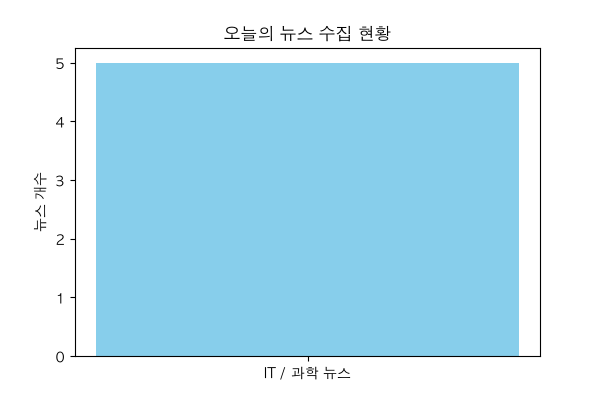
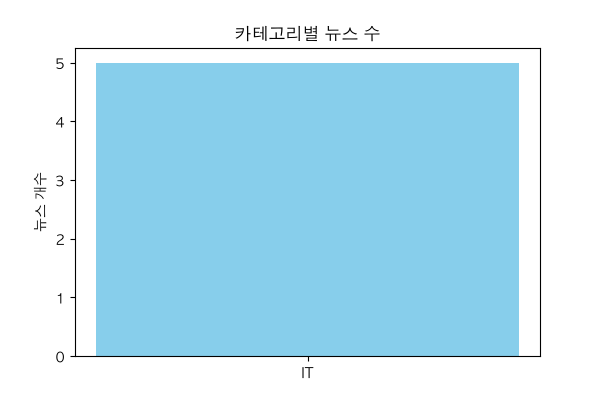
feat: complete export visualization and report

Changed region(s): [[0.36, 0.06, 0.66, 0.12], [0.45, 0.9, 0.57, 0.96]]

diff --git a/main.py b/main.py
@@ -8,6 +8,7 @@ import analyzer
 import reporter
 import exporter
 
+# ⭐ 파이썬 로깅 시스템 설정 (콘솔에 INFO 등급 이상의 로그를 예쁘게 출력해 줍니다)
 logging.basicConfig(
     level=logging.INFO,
     format="[%(levelname)s] %(message)s"
@@ -16,42 +17,49 @@ logging.basicConfig(
 parser = argparse.ArgumentParser(description="AI 뉴스 트렌드 및 종합 분석 리포트")
 subparsers = parser.add_subparsers(dest="command")
 
-# 명령어 종류 등록
+# fetch 명령어
 fetch_parser = subparsers.add_parser("fetch")
 fetch_parser.add_argument("--source", default="google")
 fetch_parser.add_argument("--limit", default=5) 
 
+# clean 명령어
 clean_parser = subparsers.add_parser("clean")
 
+# summarize 명령어
 summarize_parser = subparsers.add_parser("summarize")
 summarize_parser.add_argument("--unsummarized", action="store_true")
 
+# analyze 명령어
 analyze_parser = subparsers.add_parser("analyze")
 analyze_parser.add_argument("--category", default="IT")
 
-report_parser = subparsers.add_parser("report")
-
-# ⭐ 이 부분이 빠져있어서 에러가 났던 것입니다! 여기에 추가해 줍니다.
+# export 명령어
 export_parser = subparsers.add_parser("export")
-export_parser.add_argument("--status", default="all", help="내보낼 뉴스 상태 필터")
+export_parser.add_argument("--status", default=None)
+export_parser.add_argument("--format", choices=["csv", "jsonl"], default="csv")
+
+# report 명령어
+report_parser = subparsers.add_parser("report")
 
 args = parser.parse_args()
 
 if args.command == "fetch":
     logging.info(f"뉴스 수집 시작: source={args.source}, limit={args.limit}")
     collected_news = fetcher.fetch_google_news(args.limit)
+    
     if collected_news:
         storage.save_raw_data(collected_news)
         logging.info(f"수집 완료: {len(collected_news)}건 성공")
+        logging.info("raw 저장소(raw_news.jsonl)에 저장 완료!")
     else:
-        logging.warning("수집된 뉴스가 없습니다.")
+        logging.warning("수집된 뉴스가 없거나 네트워크 오류가 발생했습니다.")
 
 elif args.command == "clean":
-    logging.info("데이터 정제 시작...")
+    logging.info("데이터 정제(Clean) 시작...")
     raw_data = storage.load_raw_data()
     cleaned_data = cleaner.clean_data(raw_data)
     storage.save_clean_data(cleaned_data)
-    logging.info(f"정제 완료: {len(cleaned_data)}건 저장")
+    logging.info(f"정제 완료: {len(cleaned_data)}건 저장 (clean_news.jsonl)")
 
 elif args.command == "summarize":
     logging.info("AI 뉴스 요약 시작...")
@@ -64,31 +72,50 @@ elif args.command == "analyze":
     logging.info(f"종합 인사이트 분석 시작 (카테고리: {args.category})...")
     clean_data = storage.load_clean_data()
     summarized_data = [news for news in clean_data if news.get("상태") == "summarized"]
+    
     if not summarized_data:
-        logging.warning("분석할 요약 뉴스가 없습니다.")
+        logging.warning("분석할 요약 뉴스가 없습니다. summarize를 먼저 실행해주세요.")
     else:
         insights = analyzer.generate_insights(summarized_data)
         storage.save_insights(insights)
-        logging.info("분석 결과 저장 완료")
+        logging.info("분석 결과 저장 완료 (insight_result.json)")
+
 
 elif args.command == "report":
     logging.info("최종 리포트 및 시각화 그래프 생성 중...")
     clean_data = storage.load_clean_data()
     insights = storage.load_insights()
+    
     if not insights:
-        logging.error("분석 결과가 없습니다.")
+        logging.error("분석 결과가 없습니다. analyze를 먼저 실행해주세요.")
     else:
-        reporter.generate_report(len(clean_data), insights)
+        reporter.generate_report(clean_data, insights)
         logging.info("리포트 및 그래프 생성 완료!")
 
 elif args.command == "export":
     logging.info(f"데이터 내보내기 시작 (필터 상태: {args.status})...")
+
     clean_data = storage.load_clean_data()
-    if args.status != "all":
-        target_data = [news for news in clean_data if news.get("상태") == args.status]
+
+    if args.status:
+        target_data = [
+            news for news in clean_data
+            if news.get("상태") == args.status
+        ]
     else:
         target_data = clean_data
-    exporter.export_to_csv(target_data, filename="exported_news.csv")
+
+    if args.format == "csv":
+        exporter.export_to_csv(
+        target_data,
+        filename="exported_news.csv"
+    )
+
+    elif args.format == "jsonl": 
+        exporter.export_to_jsonl(
+        target_data,
+        filename="exported_news.jsonl"
+    )
 
 else:
-    logging.error("정확한 명령어를 입력해주세요. (fetch, clean, summarize, analyze, report, export)")
+    logging.error("정확한 명령어를 입력해주세요. (fetch, clean, summarize, analyze, report)")

diff --git a/reporter.py b/reporter.py
@@ -1,37 +1,104 @@
 import matplotlib.pyplot as plt
 import os
 
-def generate_report(news_count, insights):
+def generate_report(news_list, insights):
+    news_count = len(news_list)
     # 1. 📊 그래프 그리기 (시각화)
     # 맥북에서 한글이 깨지지 않게 'AppleGothic' 폰트를 설정해 줍니다.
     plt.rcParams['font.family'] = 'AppleGothic'
     plt.rcParams['axes.unicode_minus'] = False
     
     # x축(이름)과 y축(숫자) 데이터 준비
-    categories = ['IT / 과학 뉴스']
-    counts = [news_count]
+    category_counts = {}
+
+    for news in news_list:
+        category = news.get("카테고리", "IT")
+        category_counts[category] = category_counts.get(category, 0) + 1
+
+    categories = list(category_counts.keys())
+    counts = list(category_counts.values())
     
     # 막대그래프 그리기
     plt.figure(figsize=(6, 4))
-    plt.bar(categories, counts, color='skyblue')
-    plt.title("오늘의 뉴스 수집 현황")
+    plt.bar(categories, counts, color='skyblue', linewidth=0)
+    plt.title("카테고리별 뉴스 수")
     plt.ylabel("뉴스 개수")
     
     # 그린 그래프를 이미지 파일(PNG)로 저장!
     plt.savefig("news_chart.png")
     plt.close()
+
+    # 2. 📈 일자별 수집 추이 그래프 만들기
+    daily_counts = {}
+
+    for news in news_list:
+        collected_at = news.get("수집시각", "")
+
+        if collected_at:
+            date = collected_at.split(" ")[0]
+            daily_counts[date] = daily_counts.get(date, 0) + 1
+
+    dates = list(daily_counts.keys())
+    counts_by_date = list(daily_counts.values())
+
+    plt.figure(figsize=(8, 4))
+    plt.plot(dates, counts_by_date, marker="o")
+    plt.title("일자별 뉴스 수집 추이")
+    plt.xlabel("수집 날짜")
+    plt.ylabel("뉴스 개수")
+    plt.xticks(rotation=45)
+    plt.tight_layout()
+
+    plt.savefig("news_daily_trend.png")
+    plt.close()
+
+    # 품질 지표 계산
+    summarized_count = sum(
+        1 for news in news_list
+        if news.get("상태") == "summarized"
+    )
+
+    if news_count > 0:
+        summary_rate = summarized_count / news_count * 100
+    else:
+        summary_rate = 0
+
+    required_fields = ["제목", "링크", "수집시각"]
+
+    complete_count = sum(
+        1 for news in news_list
+        if all(news.get(field) for field in required_fields)
+    )
+
+    if news_count > 0:
+        completeness_rate = complete_count / news_count * 100
+    else:
+        completeness_rate = 0
+
+    # TOP N 집계
+    top_categories = sorted(
+        category_counts.items(),
+        key=lambda x: x[1],
+        reverse=True
+    )[:3]
     
-    # 2. 📝 최종 텍스트 보고서(MD) 만들기
+    # 3. 📝 최종 텍스트 보고서(MD) 만들기
     report_text = f"""# 📊 AI 뉴스 트렌드 종합 리포트
 
-## 1. 데이터 수집 통계
-- **총 수집된 뉴스 기사:** {news_count}건
-- **분석 상태:** 요약 및 트렌드 분석 완료
+    ## 1. 데이터 수집 통계
+    - **총 수집된 뉴스 기사:** {news_count}건
+    - **요약 완료된 뉴스:** {summarized_count}건 ({summary_rate:.2f}%)
+    - **완료된 뉴스:** {complete_count}건 ({completeness_rate:.2f}%)
+    - **분석 상태:** 요약 및 트렌드 분석 완료
+    """
+    report_text += "\n## 2. 카테고리 TOP 3\n"
 
-## 2. 🤖 AI 인사이트 분석 결과
+    for rank, (category, count) in enumerate(top_categories, start=1):
+        report_text += f"{rank}. **{category}** - {count}건\n"
 
-### 📈 주요 트렌드
-"""
+    report_text += "\n## 3. 🤖 AI 인사이트 분석 결과\n"
+    report_text += "\n### 📈 주요 트렌드\n"
+
     # 트렌드 목록을 하나씩 꺼내서 보고서에 덧붙이기
     for trend in insights["주요_트렌드"]:
         report_text += f"- {trend}\n"

diff --git a/fetcher.py b/fetcher.py
@@ -1,29 +1,43 @@
 import requests
 from bs4 import BeautifulSoup
-from datetime import datetime # ⭐ 지금 몇 시인지 알려주는 도구 추가!
+from datetime import datetime
+import logging
 
 def fetch_google_news(limit):
     url = "https://news.google.com/rss/headlines/section/topic/TECHNOLOGY?hl=ko&gl=KR&ceid=KR:ko"
-    response = requests.get(url)
+    
+    try:
+        # ⭐ timeout=5를 주어 5초 안에 응답이 없으면 에러를 뿜도록 안전장치 설정
+        response = requests.get(url, timeout=5)
+        
+        # 만약 인터넷 주소가 잘못되었거나 서버가 고장 났다면(예: 404, 500 에러) 여기서 잡아냅니다.
+        response.raise_for_status()
+        
+    except requests.exceptions.Timeout:
+        logging.error("서버 응답 시간이 초과되었습니다. (타임아웃)")
+        return []
+    except requests.exceptions.RequestException as e:
+        logging.error(f"네트워크 오류 발생: {e}")
+        return []
+
+    # 정상적으로 가져왔을 때의 처리
     soup = BeautifulSoup(response.text, "xml")
     items = soup.find_all("item")
     
     news_list = []
-    
-    # ⭐ 지금 이 순간의 날짜와 시간을 만들어냅니다. (예: 2026-09-11 12:15:53)
     now = datetime.now().strftime("%Y-%m-%d %H:%M:%S")
     
     for item in items[:int(limit)]:
-        title = item.title.text
-        link = item.link.text
+        title = item.title.text if item.title else "제목 없음"
+        link = item.link.text if item.link else "링크 없음"
         
-        # ⭐ 미션 요구사항에 맞춰 꼬리표 3개를 추가했습니다!
         news_list.append({
             "제목": title,
             "링크": link,
-            "수집시각": now,           # 언제?
-            "소스정보": "google_rss",  # 어디서?
-            "수집방법": "rss"          # 어떻게?
+            "수집시각": now,
+            "소스정보": "google_rss",
+            "수집방법": "rss",
+            "카테고리": "IT"
         })
         
     return news_list

diff --git a/exporter.py b/exporter.py
@@ -1,0 +1,50 @@
+import csv
+import json
+import logging
+
+def export_to_csv(news_list, filename="exported_news.csv"):
+    """
+    뉴스 데이터를 CSV 파일로 내보내는 함수입니다.
+    """
+    if not news_list:
+        logging.warning("내보낼 뉴스 데이터가 없습니다.")
+        return False
+
+    # 엑셀이나 CSV에서 한글이 깨지지 않도록 'utf-8-sig' 인코딩을 사용합니다.
+    try:
+        with open(filename, "w", newline="", encoding="utf-8-sig") as file:
+            # 딕셔너리의 키값들을 표의 맨 위 제목(Header)으로 사용합니다.
+            fieldnames = news_list[0].keys()
+            writer = csv.DictWriter(file, fieldnames=fieldnames)
+            
+            writer.writeheader() # 제목 쓰기
+            for news in news_list:
+                writer.writerow(news) # 내용 쓰기
+                
+        logging.info(f"데이터 내보내기 성공: {filename} ({len(news_list)}건)")
+        return True
+    except Exception as e:
+        logging.error(f"데이터 내보내기 실패: {e}")
+        return False
+
+    import json
+
+def export_to_jsonl(news_list, filename="exported_news.jsonl"):
+    """
+    뉴스 데이터를 JSONL 파일로 내보내는 함수입니다.
+    """
+    if not news_list:
+        logging.warning("내보낼 뉴스 데이터가 없습니다.")
+        return False
+
+    try:
+        with open(filename, "w", encoding="utf-8") as file:
+            for news in news_list:
+                file.write(json.dumps(news, ensure_ascii=False) + "\n")
+
+        logging.info(f"데이터 내보내기 성공: {filename} ({len(news_list)}건)")
+        return True
+
+    except Exception as e:
+        logging.error(f"데이터 내보내기 실패: {e}")
+        return False

diff --git a/final_report.md b/final_report.md
@@ -1,10 +1,15 @@
 # 📊 AI 뉴스 트렌드 종합 리포트
 
-## 1. 데이터 수집 통계
-- **총 수집된 뉴스 기사:** 5건
-- **분석 상태:** 요약 및 트렌드 분석 완료
+    ## 1. 데이터 수집 통계
+    - **총 수집된 뉴스 기사:** 5건
+    - **요약 완료된 뉴스:** 5건 (100.00%)
+    - **완료된 뉴스:** 5건 (100.00%)
+    - **분석 상태:** 요약 및 트렌드 분석 완료
+    
+## 2. 카테고리 TOP 3
+1. **IT** - 5건
 
-## 2. 🤖 AI 인사이트 분석 결과
+## 3. 🤖 AI 인사이트 분석 결과
 
 ### 📈 주요 트렌드
 - AI 기술의 산업 전반 확산 및 일상화 가속
